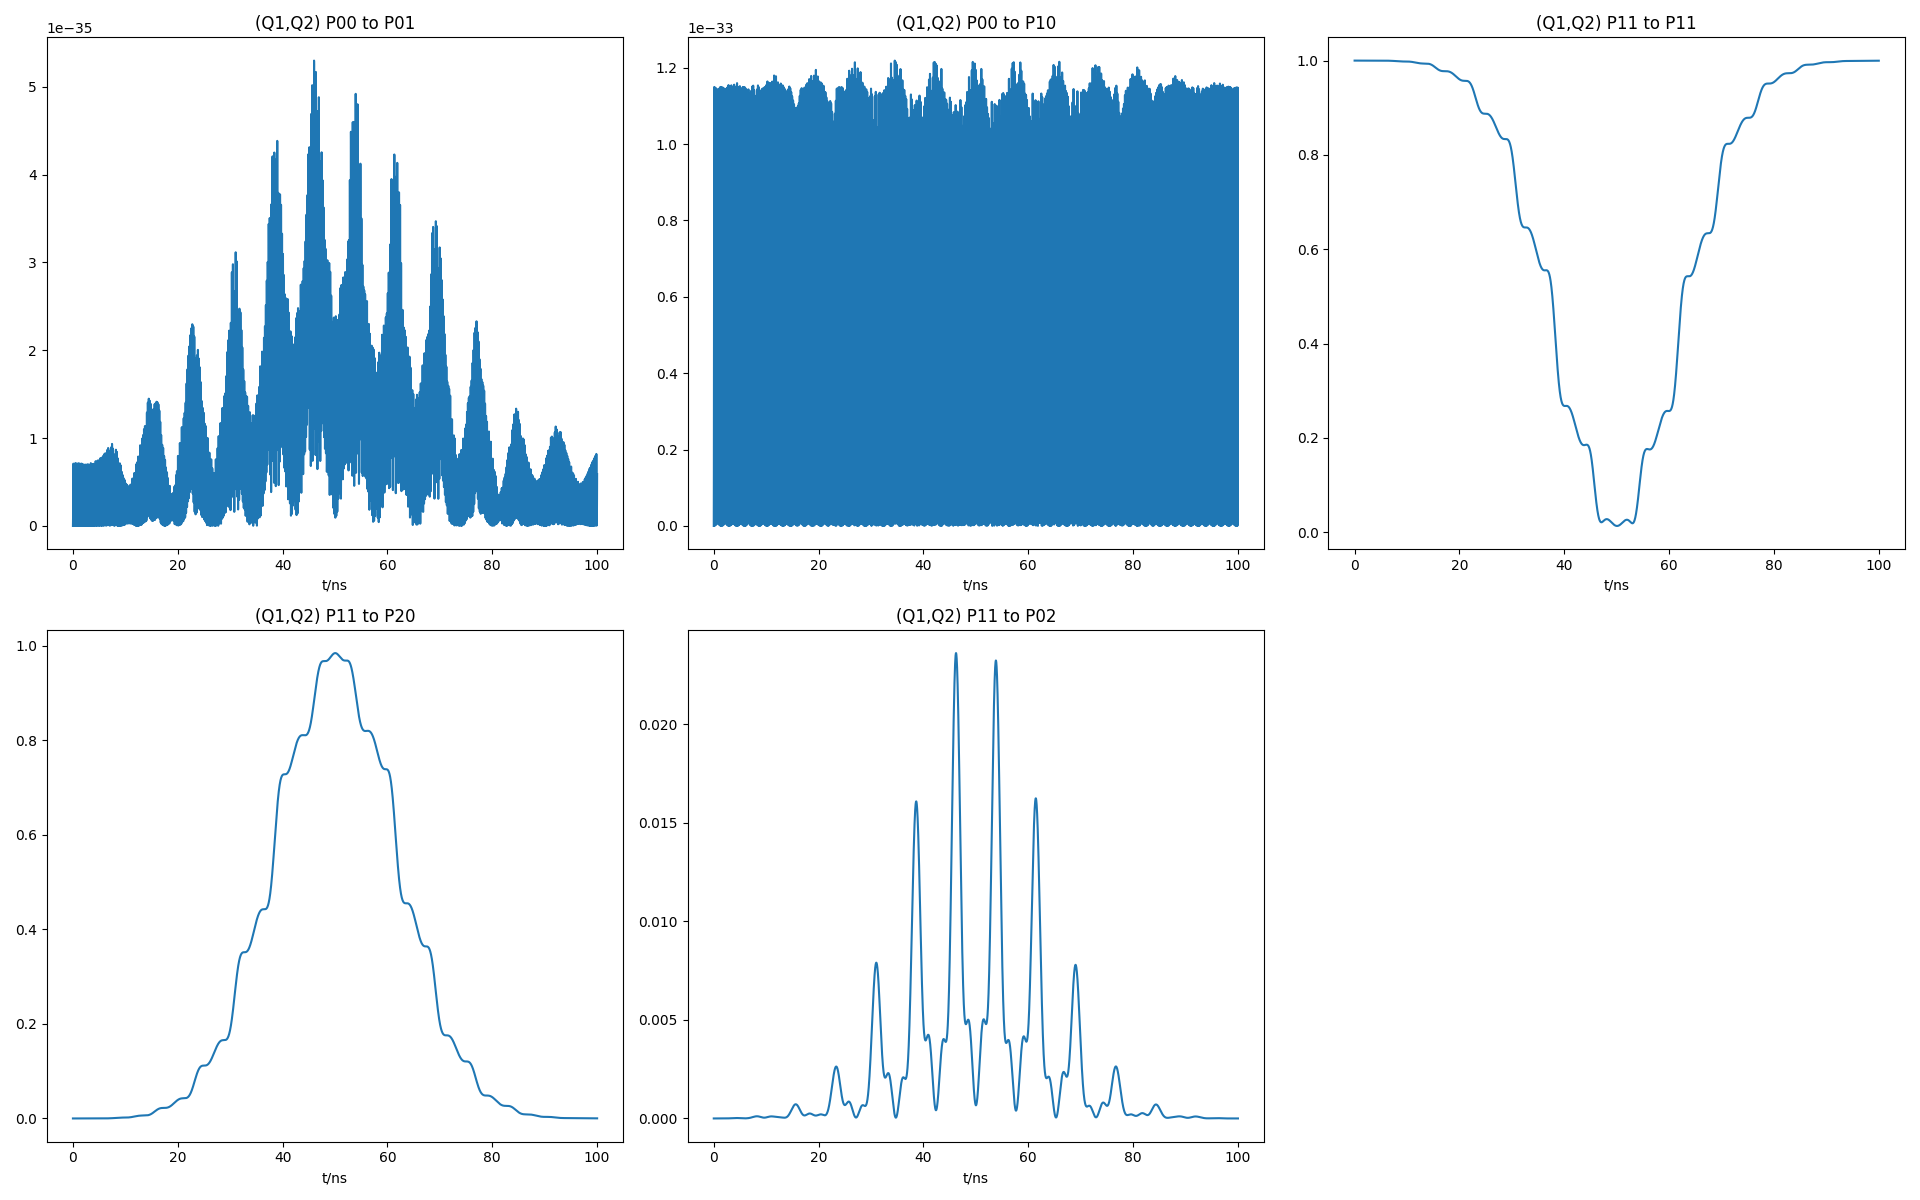
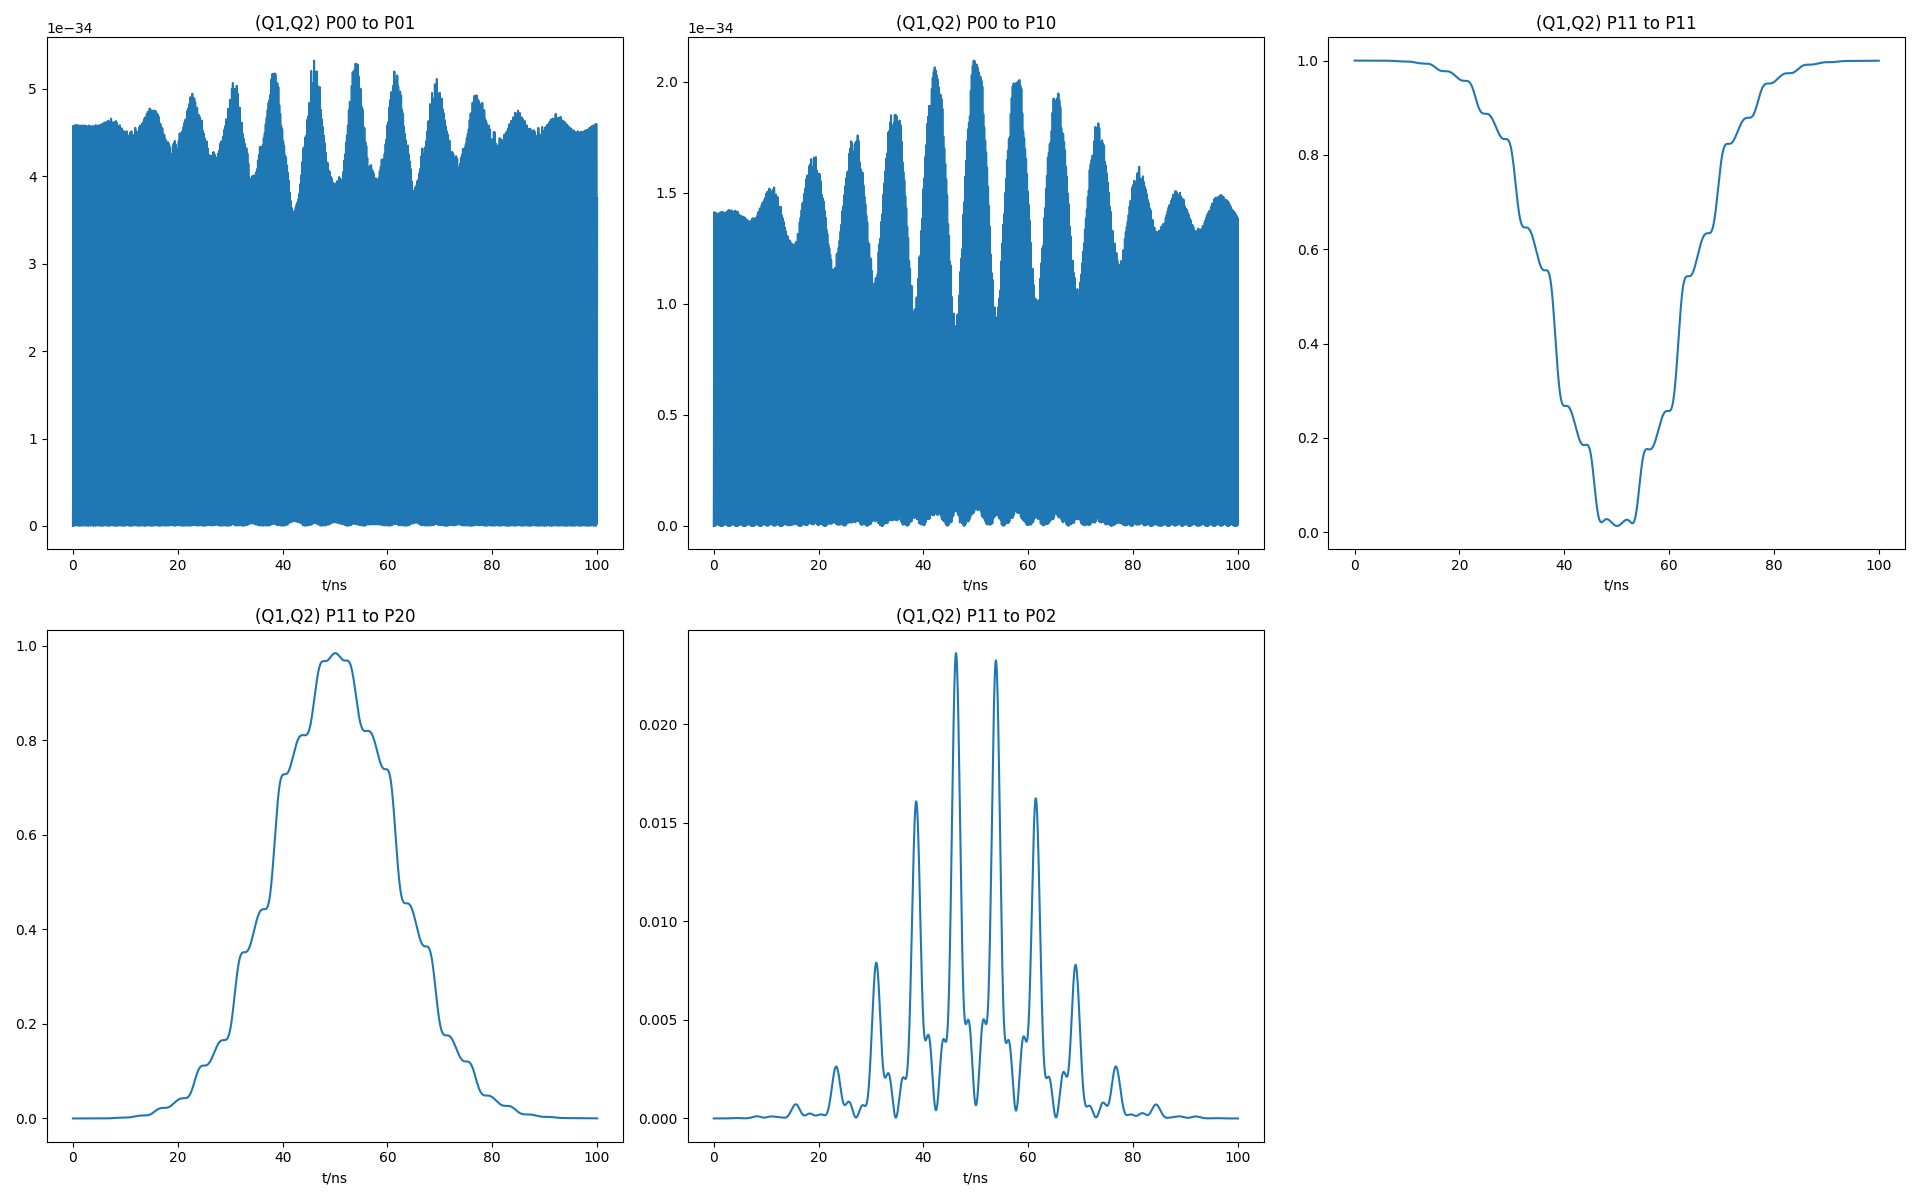
1.0

diff --git a/QubitSim/model.py b/QubitSim/model.py
@@ -73,6 +73,7 @@ class Circuit():
         # exponent_function_expand_order_num.
         # picture_filename: Filename of picture to be drawed.
         # npy_filename: Filename of subspace quantum gate.
+        # mode: The variable determines if the circuit needs phase gate.
         self.t_start = 0
         self.t_end = 20E-9
         self.t_piece = 1E-11
@@ -81,6 +82,7 @@ class Circuit():
         self.exponent_function_expand_order_num = 15
         self.picture_filename = "picture.png"
         self.npy_filename = "gate.npy"
+        self.mode = 0
         # ====================================================================
 
     def initial(self):
@@ -361,8 +363,9 @@ class Circuit():
                 time_evolution_operator_dressed_sub[i][j] = time_evolution_operator_dressed[index_list[i]][index_list[j]]
         phase_gate = np.array([[1.0, 0, 0, 0], [0, np.exp(2*np.pi*complex(0, 1)/ct.H*self.Eb*self.t_end), 0, 0], [0, 0, np.exp(
             2*np.pi*complex(0, 1)/ct.H*self.Ea*self.t_end), 0], [0, 0, 0, np.exp(2*np.pi*complex(0, 1)/ct.H*(self.Ea+self.Eb)*self.t_end)]])
-        time_evolution_operator_dressed_sub = np.matmul(
-            time_evolution_operator_dressed_sub, phase_gate)
+        if self.mode == 1:
+            time_evolution_operator_dressed_sub = np.matmul(
+                time_evolution_operator_dressed_sub, phase_gate)
         return (time_evolution_operator_dressed, time_evolution_operator_dressed_sub)
 
     def dressed_state_index_find(self, bare_state_list):

diff --git a/example/ACCZ/ACCZ.py b/example/ACCZ/ACCZ.py
@@ -78,6 +78,7 @@ circuit.trigonometric_function_expand_order_num = 8
 circuit.exponent_function_expand_order_num = 15
 circuit.picture_filename = "ACCZ.png"
 circuit.npy_filename = "ACCZ.npy"
+circuit.mode = 1
 circuit.initial()
 # ====================================================================
 # 2.Setting signals.
@@ -108,13 +109,20 @@ for i in range(N):
         envolope[i] = (1-np.cos((t_now-pulse_time)/rise_time *
                        np.pi))/2*amplitude*(1+2*wave_para_1)
         waveform_ts[i] = envolope[i]*np.cos(t_now*2*np.pi*frequency)
-amp_norm = np.mean(envolope[1:])/(pulse_time+rise_time) * (pulse_time+2*rise_time)/amplitude
+amp_norm = np.mean(envolope[1:])/(pulse_time+rise_time) * \
+    (pulse_time+2*rise_time)/amplitude
 envolope = envolope/amp_norm
 waveform_ts = waveform_ts/amp_norm
-circuit.signal_3z=waveform_ts
+circuit.signal_3z = waveform_ts
 plt.figure()
 plt.plot(circuit.signal_3z)
 plt.show()
 # 3.Run.
 circuit.run()
-
+# 4.data process
+phase_globle = np.angle(circuit.time_evolution_operator_dressed_sub[0][0])
+phase1 = np.angle(circuit.time_evolution_operator_dressed_sub[1][1])
+phase2 = np.angle(circuit.time_evolution_operator_dressed_sub[2][2])
+phase_U = np.diag([np.exp(-complex(0, 1)*phase_globle), np.exp(-complex(0, 1)*phase1),
+                  np.exp(-complex(0, 1)*phase2), np.exp(-complex(0, 1)*(phase1+phase2-phase_globle))])
+print(np.matmul(phase_U,circuit.time_evolution_operator_dressed_sub))

diff --git a/example/DCCZ/DCCZ.py b/example/DCCZ/DCCZ.py
@@ -79,6 +79,7 @@ circuit.trigonometric_function_expand_order_num = 8
 circuit.exponent_function_expand_order_num = 15
 circuit.picture_filename = "DCCZ.png"
 circuit.npy_filename = "DCCZ.npy"
+circuit.mode = 1
 circuit.initial()
 # ====================================================================
 # 2.Setting signals.
@@ -112,3 +113,10 @@ plt.plot(circuit.t_list*1E9, circuit.signal_3z)
 plt.show()
 # 3.Run.
 circuit.run()
+# 4.data process
+phase_globle = np.angle(circuit.time_evolution_operator_dressed_sub[0][0])
+phase1 = np.angle(circuit.time_evolution_operator_dressed_sub[1][1])
+phase2 = np.angle(circuit.time_evolution_operator_dressed_sub[2][2])
+phase_U = np.diag([np.exp(-complex(0, 1)*phase_globle), np.exp(-complex(0, 1)*phase1),
+                  np.exp(-complex(0, 1)*phase2), np.exp(-complex(0, 1)*(phase1+phase2-phase_globle))])
+print(np.matmul(phase_U,circuit.time_evolution_operator_dressed_sub))

diff --git a/temp.py b/temp.py
@@ -3,3 +3,8 @@ from scipy import special
 
 a = np.load("DCCZ.npy")
 print(a)
+# for i in range(4):
+#     for j in range(4):
+#         print("%.4f" % np.abs(a[i][j]), end='_')
+#         print("%.4f" % np.angle(a[i][j]), end=',')
+#     print()
